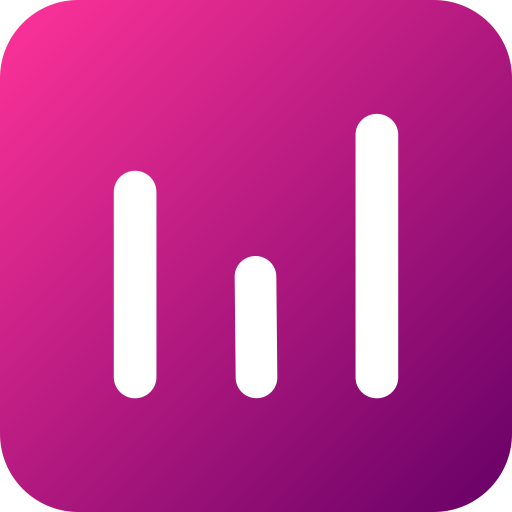
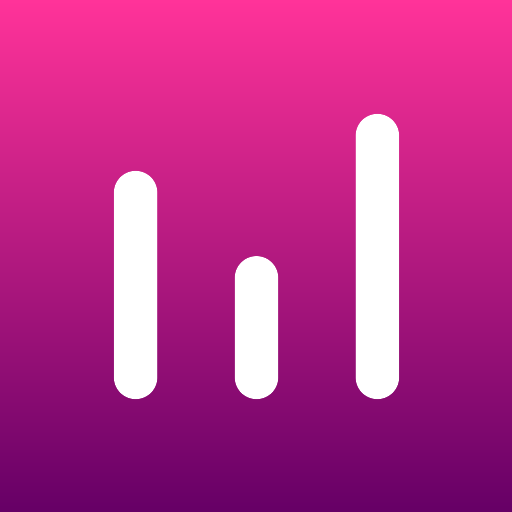
v1.1.0 - アイコン・紹介ページ・Cursor連携を更新

diff --git a/docs/app-versions.html b/docs/app-versions.html
@@ -1,5 +1,8 @@
 <table>
 <tbody>
+<tr><td>2026.11.10</td><td>v1.1.0</td><td><strong>紫アイコンと音声通知</strong><br>紹介ページのアイコンに白い使用率バーを追加<br>ChatGPT、Cursor、Claude の使用率を表示・読み上げ<br>Cursor の純正枠と API 枠を別々に読み上げ</td></tr>
+<tr><td>2026.11.10</td><td>v1.0.18</td><td><strong>Cursor連携</strong><br>保存された暗号化トークンを復号して使用量を取得<br>Cursorの純正枠とAPI枠を音声で区別</td></tr>
+<tr><td>2026.11.09</td><td>v1.0.16</td><td><strong>音声通知</strong><br>設定した残量しきい値で使用率を読み上げ<br>ChatGPTとClaudeの5時間枠・週間枠を区別</td></tr>
 <tr><td>2026.10.06</td><td>v1.0.10</td><td><strong>メニューバー</strong><br>更新のたびに「…」で消えないよう、取得完了時だけ表示を更新<br>Cursor / ChatGPT の使用率を1行で表示（リセット時刻付き）<br>更新間隔を60秒に</td></tr>
 <tr><td>2026.10.05</td><td>v1.0.6</td><td><strong>Claude 許可</strong><br>Claude 使用率の取得で許可が必要なとき、メニューからタップして再許可できるよう改善</td></tr>
 <tr><td>2026.10.04</td><td>v1.0.4</td><td><strong>安定性</strong><br>Claude 連携でキーチェーンのパスワード入力が繰り返し出ないよう改善<br>認証情報はファイル保存を優先し、キーチェーンには書き込まない</td></tr>

diff --git a/windows/Assets/README.md b/windows/Assets/README.md
@@ -2,5 +2,5 @@
 
 Run `../generate-assets.ps1` after placing `app-icon.png` here (512×512 recommended).
 
-Source: `mac/icon.svg`（正本）。例: `magick mac/icon.svg -background none -resize 512x512 Assets/app-icon.png`
+Source: purple gradient plus white usage bars from `mac/icon-bars.svg`. `generate-assets.ps1` renders the bars over the square gradient so the web page can apply its own corner rounding.
 スクリーンショット（`ss/`）は Store アイコンに使わない。
